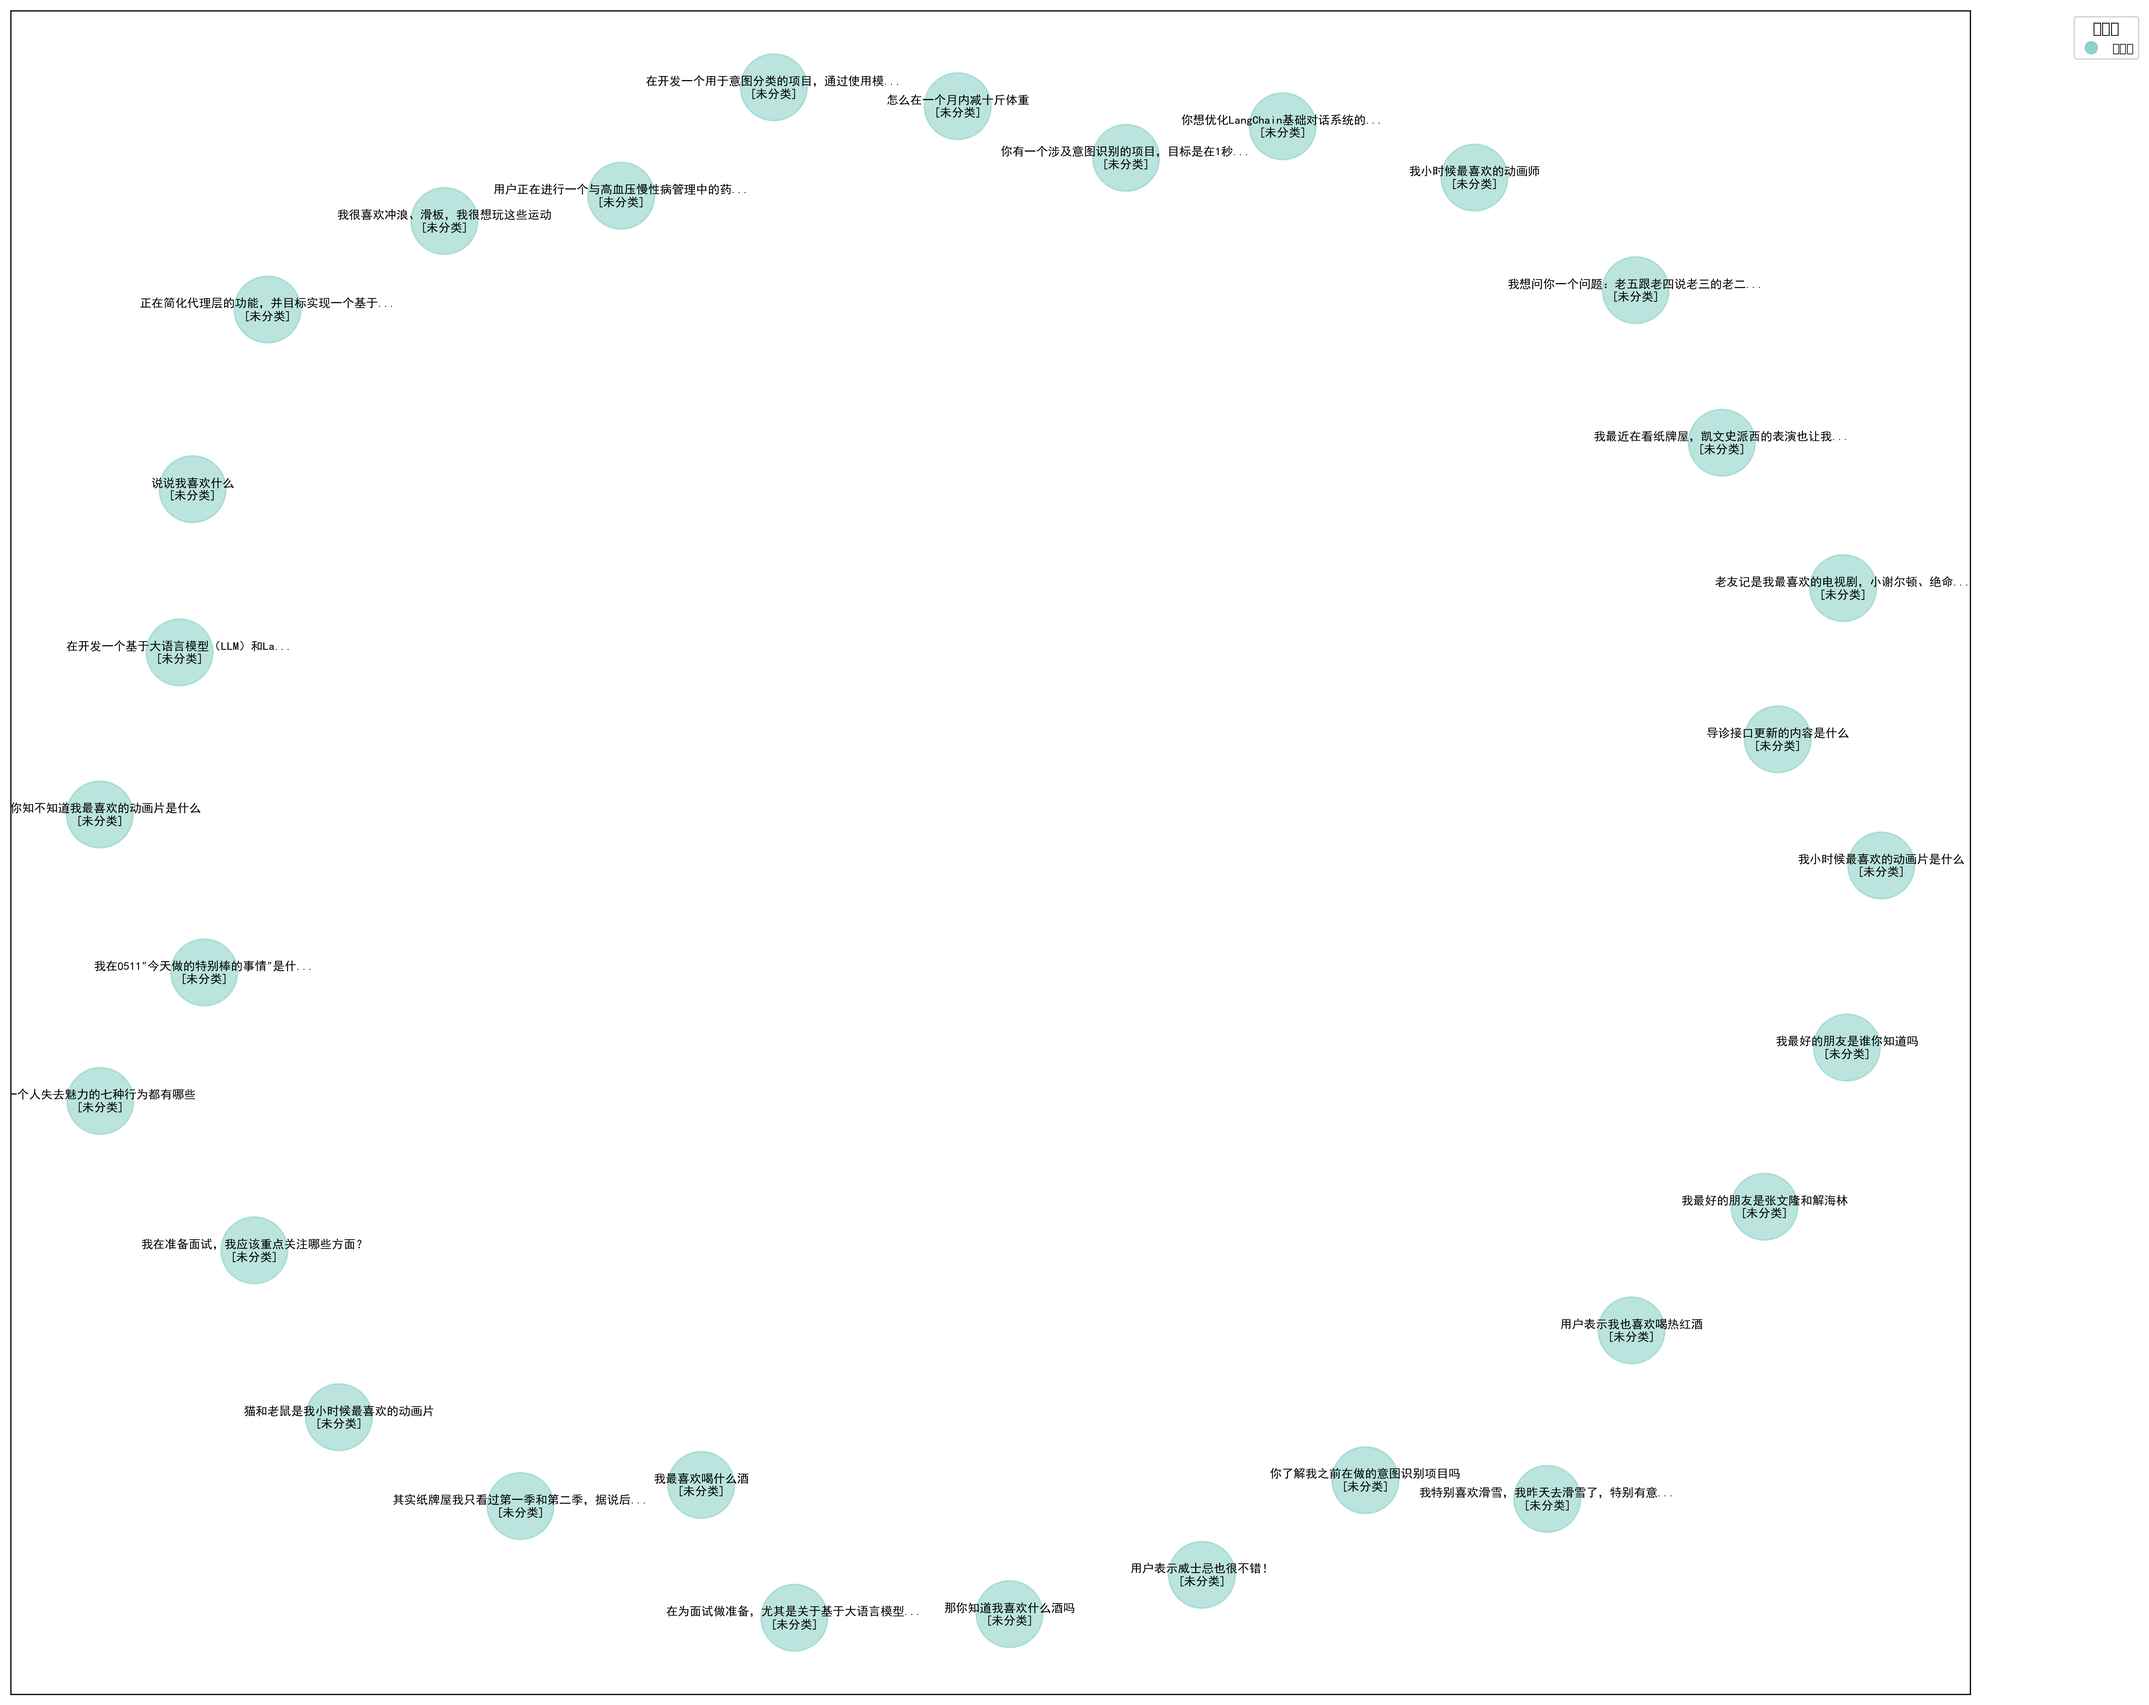
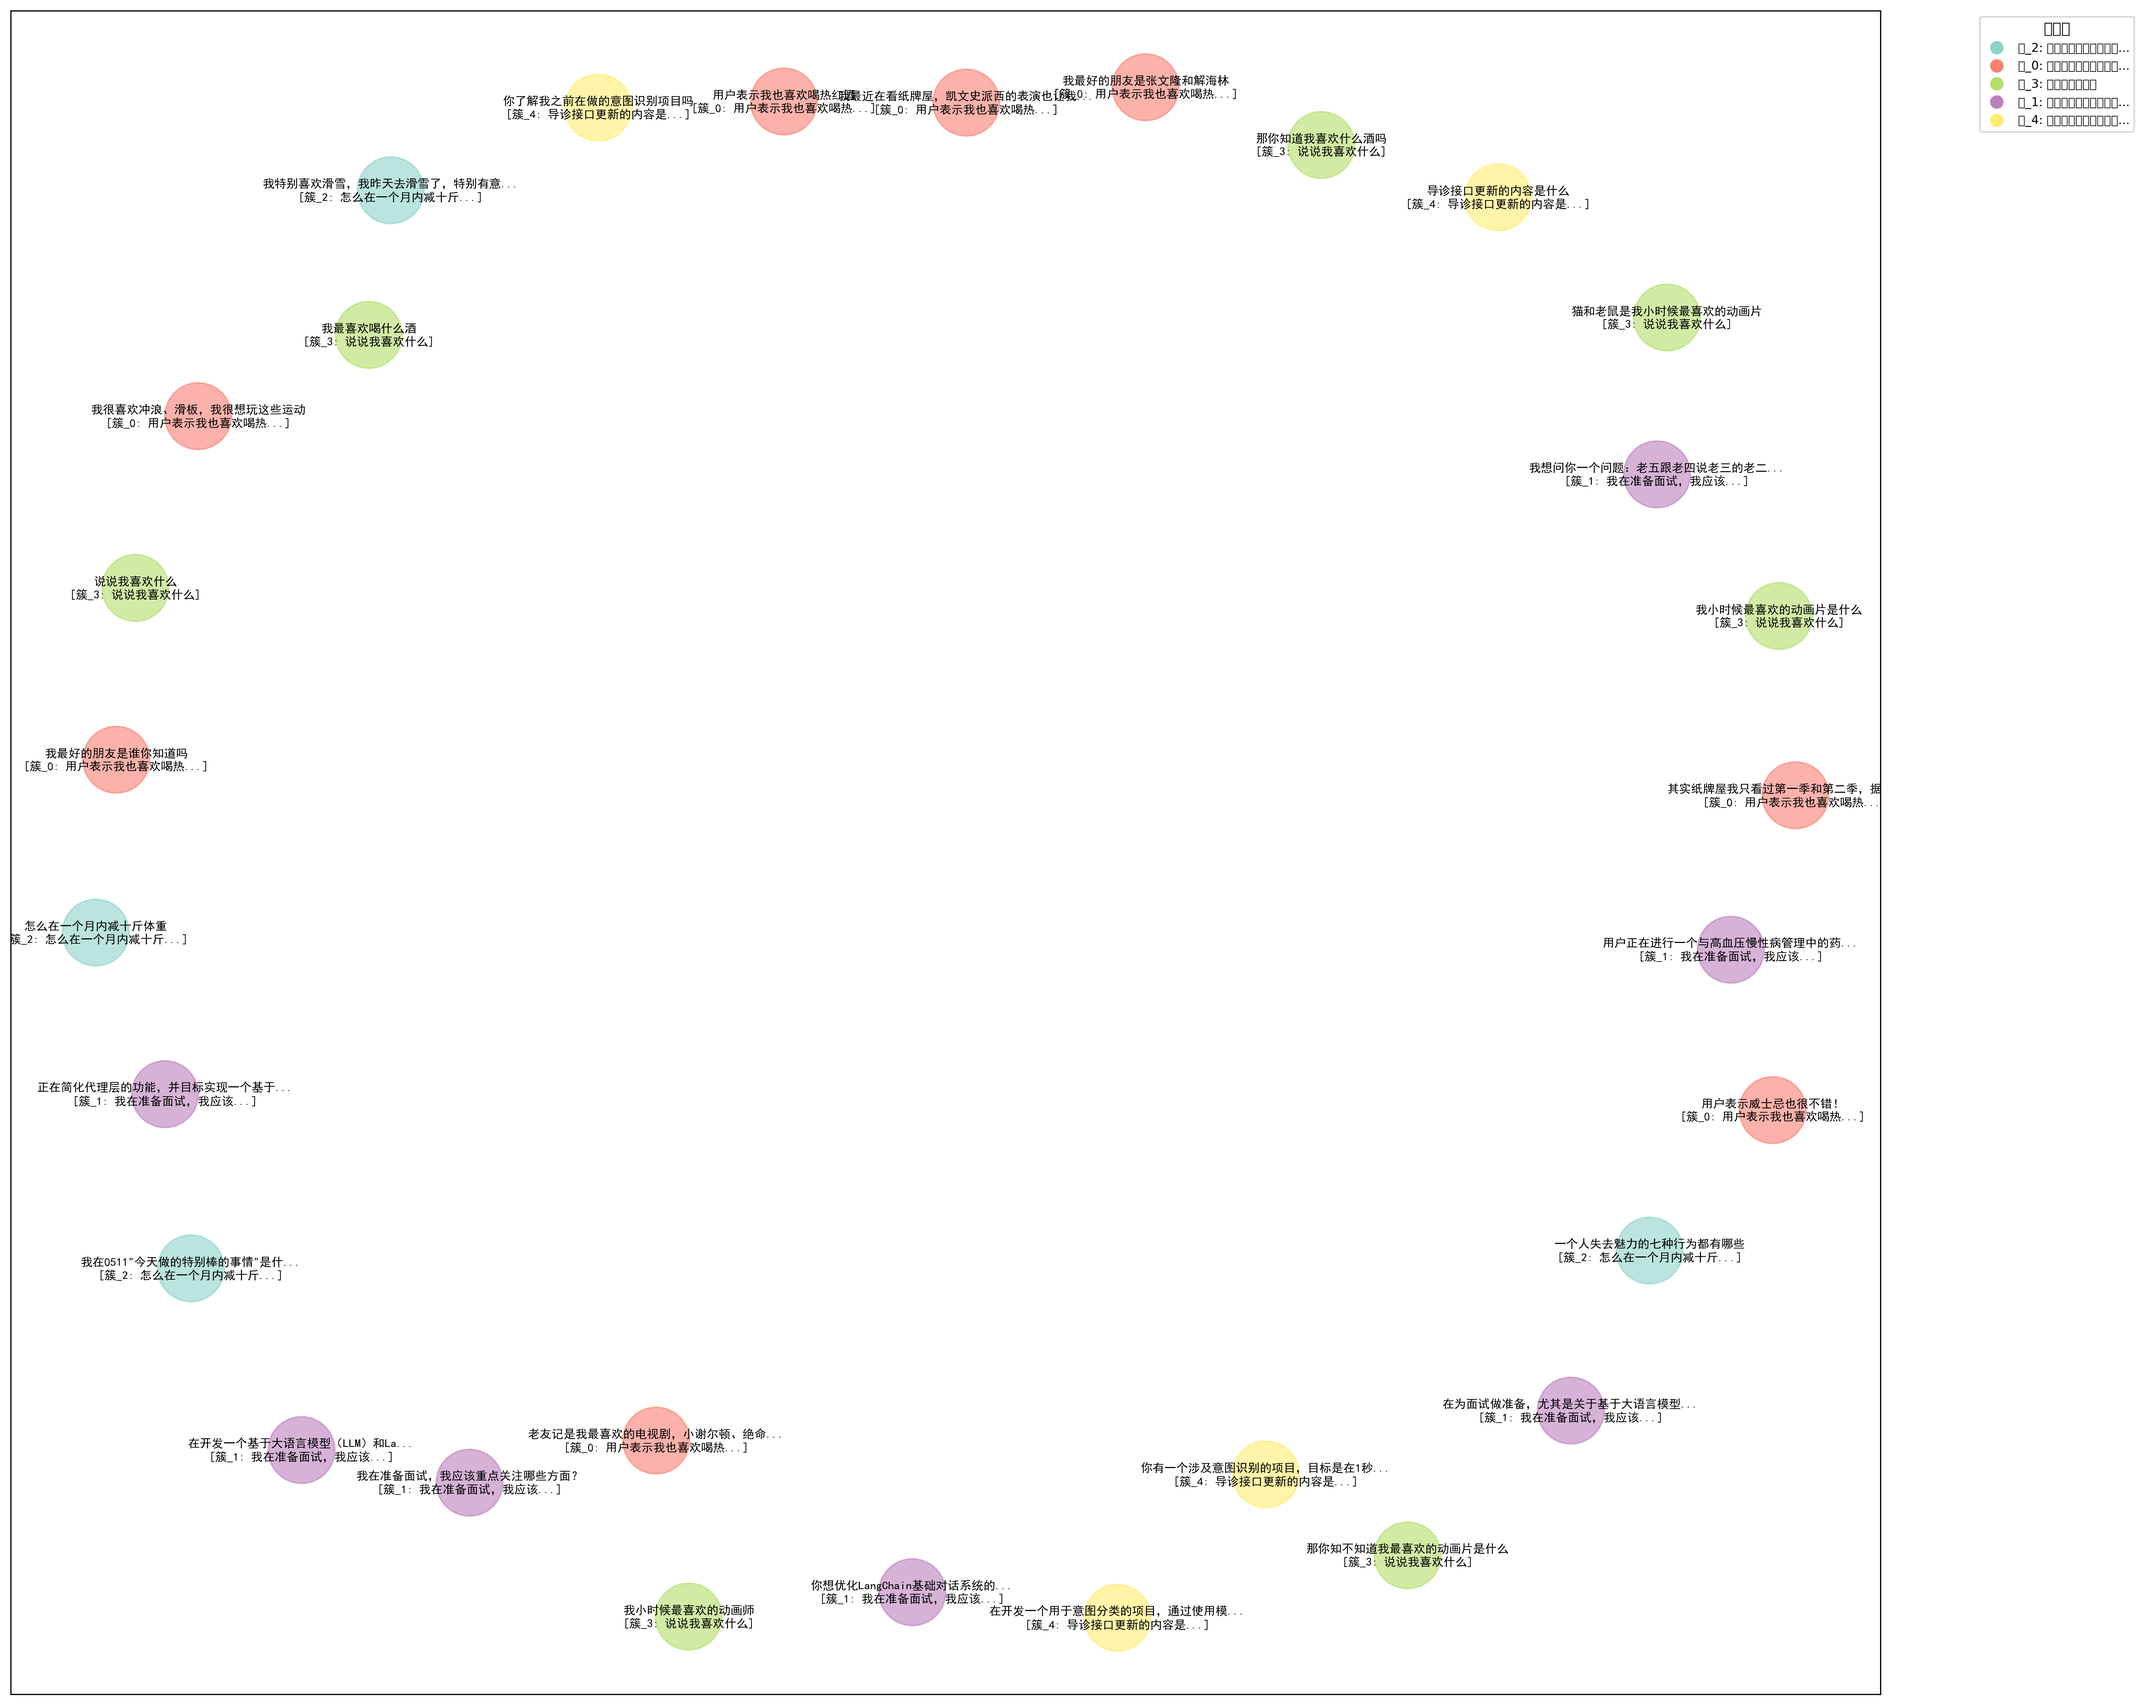
图谱和层级分类有了升级

diff --git a/models/hierarchy_manager.py b/models/hierarchy_manager.py
@@ -365,33 +365,78 @@ class HierarchyManager:
             # 使用 BERT 计算内容的嵌入向量
             embeddings = np.array([self._encode_text(content) for content in contents])
             
-            # 使用 DBSCAN 进行聚类
-            clustering = DBSCAN(eps=0.5, min_samples=2).fit(embeddings)
+            # 使用 UMAP 进行降维，减少维度灾难的影响
+            from umap import UMAP
+            n_neighbors = min(15, len(contents) - 1)  # 根据数据量调整邻居数
+            umap = UMAP(
+                n_components=min(16, len(contents) - 1),  # 降维后的维度
+                n_neighbors=n_neighbors,
+                min_dist=0.1,
+                metric='cosine',
+                random_state=42
+            )
+            embeddings_reduced = umap.fit_transform(embeddings)
+            
+            # 使用 DBSCAN 进行聚类，调整参数使其更容易形成簇
+            from sklearn.preprocessing import StandardScaler
+            scaler = StandardScaler()
+            embeddings_scaled = scaler.fit_transform(embeddings_reduced)
+            
+            clustering = DBSCAN(
+                eps=0.5,           # 增大邻域半径
+                min_samples=2,     # 保持较小的最小样本数
+                metric='euclidean'
+            ).fit(embeddings_scaled)
+            
             clusters = clustering.labels_
+            
+            # 如果所有点都是噪声点，则使用 KMeans 进行聚类
+            if len(set(clusters)) <= 1:  # 如果只有一个簇或者都是噪声点
+                logger.warning("DBSCAN 聚类效果不理想，尝试使用 KMeans")
+                from sklearn.cluster import KMeans
+                n_clusters = min(5, len(contents))  # 最多5个簇
+                kmeans = KMeans(n_clusters=n_clusters, random_state=42)
+                clusters = kmeans.fit_predict(embeddings_scaled)
             
             # 构建层级结构
             hierarchies = []
             for i, content in enumerate(contents):
                 cluster = int(clusters[i])
-                cluster_name = f"簇_{cluster}" if cluster >= 0 else "未分类"
+                # 为每个簇生成一个有意义的名称
+                if cluster >= 0:
+                    # 获取同簇的所有内容
+                    cluster_contents = [contents[j] for j, c in enumerate(clusters) if c == cluster]
+                    # 使用最短的内容作为簇的名称
+                    shortest_content = min(cluster_contents, key=len)
+                    if len(shortest_content) > 10:
+                        shortest_content = shortest_content[:10] + "..."
+                    cluster_name = f"簇_{cluster}: {shortest_content}"
+                else:
+                    cluster_name = "未分类"
                 
-                # 计算与其他记忆的关系
-                similarities = cosine_similarity([embeddings[i]], embeddings)[0]
+                # 计算与其他记忆的关系（使用降维后的向量）
+                similarities = cosine_similarity(
+                    [embeddings_scaled[i]], 
+                    embeddings_scaled
+                )[0]
                 
                 # 找出最相似的记忆作为父节点（排除自身）
                 similarities[i] = -1  # 将自身的相似度设为最小
                 parent_idx = np.argmax(similarities)
                 parent_sim = similarities[parent_idx]
                 
+                # 调整相似度阈值，使其更容易建立父子关系
+                threshold = 0.5  # 进一步降低阈值
+                
                 # 只有当相似度超过阈值时才建立父子关系
                 parent = None
-                if parent_sim > 0.8:
+                if parent_sim > threshold:
                     parent = parent_idx
                 
                 # 找出作为子节点的记忆
                 children = []
                 for j, sim in enumerate(similarities):
-                    if j != i and sim > 0.8:
+                    if j != i and sim > threshold:
                         children.append(j)
                 
                 # 构建层级信息
@@ -401,14 +446,20 @@ class HierarchyManager:
                     'children': children,
                     'similarity_scores': {
                         j: sim for j, sim in enumerate(similarities)
-                        if j != i and sim > 0.5  # 只保留相似度较高的关系
+                        if j != i and sim > 0.3  # 降低相似度阈值，显示更多关系
                     }
                 }
                 
                 hierarchies.append(hierarchy)
                 logger.debug(f"记忆 {i} 的层级信息: {hierarchy}")
             
-            logger.info("记忆层级分析完成")
+            # 记录聚类结果统计
+            unique_clusters = set(clusters)
+            cluster_sizes = {c: sum(1 for x in clusters if x == c) for c in unique_clusters}
+            logger.info(f"聚类结果: 共 {len(unique_clusters)} 个簇")
+            for c, size in cluster_sizes.items():
+                logger.info(f"簇_{c}: {size} 个记忆")
+            
             return hierarchies
             
         except Exception as e:
